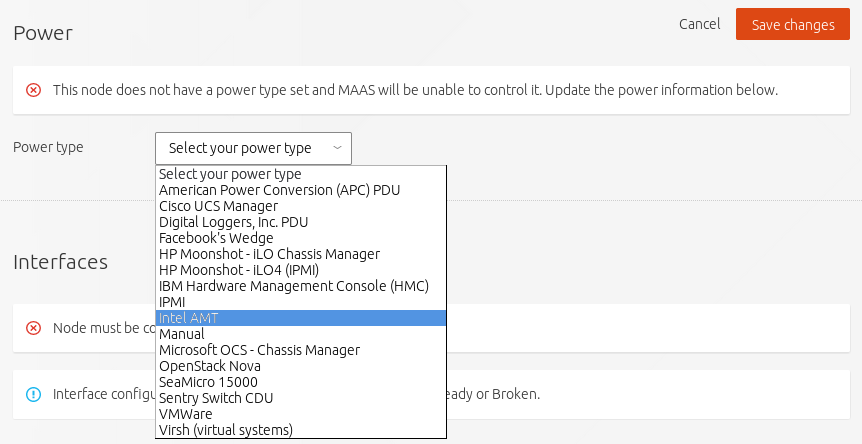
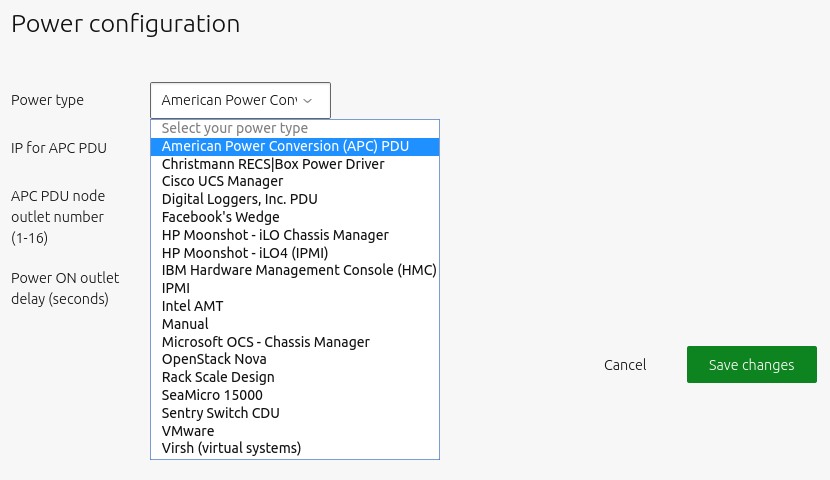
redaction

diff --git a/docs/searchindex.js b/docs/searchindex.js
@@ -1,1 +1,1 @@
-Search.setIndex({docnames:["BOSH","Juju","MAAS","OpenStack","index"],envversion:53,filenames:["BOSH.rst","Juju.rst","MAAS.rst","OpenStack.rst","index.rst"],objects:{},objnames:{},objtypes:{},terms:{"1dad6d85d6e132810439daba7ca05694cec208ab":0,"25t18":0,"40gb":2,"424b":0,"471a":0,"50gb":0,"51z":0,"7ce65259":0,"7cm8tm":1,"8366c6fd":0,"88cb":0,"8gb":[0,2],"9d3cee85db2c":0,"case":2,"default":[0,1,2,3],"import":2,"long":1,"new":[1,2,3,4],"public":[1,2,3],"return":1,"switch":3,"try":0,"while":[0,2],Adding:[0,3,4],But:[1,2],DNS:[2,3],For:[0,1,2,3],Its:3,LTS:[1,2,3],One:2,QoS:3,The:[0,1,2,3],There:[0,2],These:[2,3],Use:[0,2,3],Using:[1,4],VMs:[0,3],With:[1,3],abl:[0,2],about:[2,3],abov:[1,2,3],acceler:2,accept:2,access:[1,2],account:2,acl:3,across:[2,3],act:[2,3],action:2,adapt:2,add:[1,2,3],added:[0,1,2],adding:[2,3],addit:[2,3,4],addition:0,address:[1,2,3],adequ:2,admin:[0,1,3],administr:[2,3],advanc:3,advis:2,after:[0,2,3],agent:[1,3],alia:0,all:[0,2,3],allow:[1,2,3],almost:[0,1,2],alongsid:3,alpha1:1,alreadi:2,also:[0,2],altern:3,amazon:0,amd64:1,amount:3,amqp:3,ani:[0,1,2],anoth:[0,2],apach:0,api:[1,2,3],app:3,appear:2,append:3,appl:0,appli:0,applic:[1,2,3],appropri:2,apt:[0,1,2],arbitrari:2,arch:1,architectur:2,archiv:2,ask:[1,2],assign:2,associ:3,attempt:[1,2],auth:1,authent:1,author:4,automat:[1,2],avail:[0,1,2,3],awk:3,azur:0,backend:3,base:[2,3],basi:2,basic:2,been:[1,2],befor:[0,1,2],being:2,below:[0,2,3],best:0,better:3,bin:0,binari:4,blank:2,block:3,bmc:2,board:4,boot:2,bootstrap:[0,1,2,3],bosh:4,boshlit:0,both:[2,3],bottom:2,box:2,brew:0,bring:0,broker:3,browser:[2,3],build:0,built:2,bundl:3,button:2,call:[1,3],can:[0,1,2,3],capabl:[2,3],celect:2,cento:4,centr:2,central:3,ceph:3,chang:[2,3],charm:3,check:[1,2,3],chmod:0,choos:0,cinder:3,clarif:2,clean:4,cli:[2,4],click:[1,2],client:[0,2,3,4],clone:0,cloud:[0,1,2,3],cloudfoundri:0,cloudstack:0,cluster:3,codenam:3,com:0,combin:3,command:[0,1,2,3],commiss:4,common:2,comparison:2,compil:0,complet:[1,2],complex:2,compon:[1,3],comput:[2,3],compute01:2,compute02:2,compute03:2,compute04:2,concept:2,conductor:3,config:0,configur:[0,2,3,4],congratul:[0,3],conjunct:3,connect:[0,1,3,4],consequ:3,consid:2,consider:2,constraint:[1,2,3],contact:1,contain:[2,3],content:[2,4],continu:[0,3],control:[1,2,4],copi:1,core:[1,2],correct:0,correctli:2,cost:3,could:2,cpi:0,cppforlif:0,cpu:2,creat:[0,1,2,3],createadmin:2,credenti:[1,2],cuda:2,current:[0,2],custom:2,cycl:2,dashboard:[2,3],data:2,databas:2,defin:2,definit:1,delet:0,deliv:3,deliveri:3,depend:[2,3,4],deploi:[1,2],deploy:[0,1,2,3],describ:2,descript:4,design:3,destroi:0,detail:[0,1,2],detect:2,dev:0,devel:0,develop:0,devic:2,dhcp:4,differ:[1,2,3],directli:[3,4],director:0,directori:0,discov:2,discoveri:[2,3],disk:0,distribut:[0,3],django:3,document:2,doe:2,doing:3,domain:2,don:0,down:2,download:[0,2],downtim:0,drive:2,driver:2,drop:2,dure:[0,2,3],dynam:[3,4],each:[2,3],easier:3,easiest:0,easili:[0,2],ec2:0,edit:2,effect:3,effortlessli:3,either:0,email:2,emerg:3,empti:2,enabl:[0,3,4],encapsul:3,end:2,endpoint:1,engin:0,eniwar:[3,4],enough:1,ensur:[0,2,3],enter:[1,2,3],enterpris:3,entir:3,env:0,environ:[2,3,4],envrc:0,ephemer:2,errand:0,essenti:0,esxi:2,etc:3,everyth:[1,2,3],exact:0,exactli:3,exampl:[0,3],excel:3,exclus:3,execut:0,expand:3,experiment:3,explan:0,extend:[0,4],extens:3,extern:2,extra:0,fabric:[2,3],failur:0,featur:2,feedback:0,feel:0,fetch:1,few:[0,2],field:[1,2],file:[0,2,3],fill:2,finish:2,first:[0,1,2,3],fledg:1,follow:[0,1,2,3],forai:3,format:3,forward:2,found:1,foundat:[1,3],foundri:0,four:2,framework:2,free:0,fresh:2,from:[0,2,3],fulli:[1,2],further:[2,3],furthermor:2,galera:3,gatewai:3,gcc:0,gem:0,gener:[0,2],get:[1,2,3,4],git:0,github:[0,2],githubusercont:0,give:[0,3],given:[1,2],glanc:3,go_ag:0,goe:0,going:[1,2,3],googl:[0,2],gpu:2,great:3,grep:3,group:[0,2],gui:1,hadoop:0,half:2,hand:2,hardwar:2,has:[1,2,3],have:[0,1,2,3],held:3,here:2,high:3,hold:[1,3],home:2,homebrew:4,horizon:3,host:[1,2],how:[0,1,2],howev:2,http:[0,1,2,3],hundr:0,hypervisor:3,iaa:0,ideal:3,ident:3,identifi:2,imag:[3,4],implement:[2,3],improv:2,includ:[1,2,3],index:4,individu:2,inform:[1,2,3],infrastructur:[0,2],initi:[1,2,4],inst:3,instal:4,instanc:[0,1],instruct:[0,1,2,3],integr:3,intend:3,interact:[0,2],interest:0,interfac:[0,2,3],involv:2,ipmi:2,issu:2,its:[0,2,3],itself:1,juju01:2,juju:[2,4],jump:3,just:[0,2],keep:0,kei:[1,4],keygen:2,keyston:3,kill:3,know:0,label:2,languag:4,larg:0,later:0,latest:0,launch:[1,2],launchpad:2,lead:3,learn:3,least:0,leav:2,left:2,let:[0,2],leverag:0,lib:0,librari:3,libreadline6:0,libsqlite3:0,libssl:0,libxml2:0,libxslt:0,libyaml:0,lifecycl:0,like:[0,2],line:0,link:[1,2],linux:[0,2],list:[1,2],lite:0,load:[0,2],local:[0,2],log:[2,3],login:[1,2,3],look:[1,2,3],maa:[1,3,4],machin:[1,2,3],maco:4,made:3,mai:2,maintain:3,make:[0,2,3],manag:[0,1,2,3],mani:2,manifest:0,manual:1,master:0,mem:1,menu:2,messag:3,metal:2,method:0,microsoft:0,minim:0,minimum:2,minut:2,mkdir:0,model:[1,2,3],modifi:2,modul:4,moment:0,mon:3,monitor:[0,1,2,3],more:[0,1,2],most:2,move:[0,1,2],multipl:[0,2,3],mymaa:[1,3],mymass:1,mysql:[0,3],name:[0,1,2,3],nativ:0,navig:0,necessari:2,need:[0,1,2,3],network:[0,1,3,4],neutron:3,newli:2,next:[0,4],nic:[2,3],node:[1,3,4],normal:2,note:3,notic:1,nova:3,now:[0,1,2,3],ntp:3,number:2,oauth1:1,oauth:1,object:3,obvious:2,oct:4,off:2,often:0,onc:[2,3],one:[1,2],onto:[2,3],open:[1,2,3],openssl:0,openstack:[1,2,4],openvswitch:3,oper:[0,1,2,3],option:[1,2,3],order:2,org:3,organis:2,osd:3,other:[1,3,4],our:[0,1,2,3],out:3,output:[0,1,3],outsid:2,over:[0,3],overlap:2,own:2,paa:0,packag:[0,2,3,4],page:[0,1,2,4],pair:2,pane:2,part:[2,3],particularli:0,passphras:2,password:[2,3],past:1,patch:0,path:0,per:2,percona:3,perfectli:2,perform:[0,2,3],phase:2,physic:[2,3],pictur:2,piec:1,place:2,platform:[0,3],pleas:0,plugin:3,point:2,port:3,portion:2,possibl:2,postgresql:0,potenti:3,power:2,ppa:1,prefer:[0,1,3],prerequisit:4,press:[1,2],previou:1,previous:3,princip:3,principl:3,print:3,privat:[1,2],probe:2,process:[0,2,3],produc:1,product:3,project:[0,3],protocol:3,provid:[0,2,3],provis:0,proxi:2,pub:2,publish:0,purpos:2,pxe:2,queri:0,quick:4,quickest:3,rabbitmq:3,rack:2,rado:3,radosgw:3,ram:[0,2],rang:4,raw:0,readi:[0,2],real:3,recommend:[0,3],recoveri:0,recreat:3,redeploi:3,refer:[0,3],reflect:2,region:[2,3],regist:3,registr:3,relat:3,releas:0,reliabl:3,remain:2,rememb:3,remov:3,renam:2,render:4,report:2,repositori:[0,1,3],request:[2,3],requir:[0,1,3,4],reserv:4,resolv:2,resourc:3,retriev:1,rev:3,right:[1,2],robust:3,rout:0,rsa:2,rubi:0,run:[0,1,2,3],same:[0,1,2],satisfi:0,save:2,scalabl:3,scale:[0,1,2,3],schedul:3,script:0,search:4,second:2,section:[0,2],secur:2,see:[0,1,2,3],select:[0,1,2],separ:[1,3],seri:3,server:[2,3],servic:[0,3,4],set:[0,2],settl:3,setup:2,sever:2,sha1:0,share:3,should:[0,2,3],show:[1,2],shown:3,shutdown:3,sign:2,similar:[0,1,2,3],simpli:[1,2,3],sinc:2,singl:[2,3],skip:[0,2],small:0,smoke:0,softwar:[0,1],solut:3,some:[0,3],someth:[2,3],sourc:[0,1,2],space:[0,2],specif:2,specifi:2,sqlite3:0,sqlite:0,ssh:4,stabl:1,stack:3,stage:[0,2],standalon:0,standard:3,start:[1,2,3,4],state:[0,2,3],statu:[2,3],stemcel:0,step:[0,4],still:3,storag:[2,3],store:3,strictli:2,stronger:3,subnet:2,subordin:3,subsystem:0,succeed:0,success:1,successfulli:[1,2,3],sudo:[0,1,2],suffix:2,suit:0,summari:2,support:[0,2,3],sure:[0,3],swift:3,sync:2,synchron:3,system:[0,1,3],tabl:2,tag:[1,2,3],take:[2,3],talk:1,tap:0,target:[2,3],tell:2,term:2,termin:1,terminolog:2,territori:3,test:[0,2,4],than:3,thei:2,them:[2,3],thi:[0,1,2,3],thing:[0,2],those:2,thousand:2,through:[0,3],time:3,todo:0,togeth:2,tool:[0,1],top:[1,2],topolog:2,trace:2,traffic:2,troubl:0,troubleshoot:0,trusti:4,turn:2,two:[1,2,3],type:[1,2,3],typic:2,ubuntu:[1,2,3,4],ultim:2,under:2,underli:3,understand:3,unifi:0,unit:3,unless:[2,3],untag:2,uos:3,updat:[0,2],upload:[0,2],upstream:2,url:[1,3],usag:2,use:[0,1,2,3],used:[0,1,2,3],user:[0,1,2,3],usernam:1,uses:2,using:[0,1,2,3],usr:0,ussernam:2,usual:2,uuid:0,valu:[1,2],vari:2,variou:1,vbox:0,vendor:3,verifi:[0,1],version:[0,1,2,3,4],via:0,view:1,virtual:[0,2,3],virtualbox:0,vlan:2,vmware:[0,2],volum:3,vsphere:[0,1,2],vswitch:3,wai:[0,2,3],wait:1,want:2,warden:0,warden_cpi:0,web:[0,1,2,3],welcom:2,well:[0,2],wget:0,what:3,when:[0,1,2,3],whenev:2,where:[0,1,2],which:[1,2,3],why:2,wide:2,wider:2,window:4,within:[1,2,3],without:2,work:[1,2,3],workflow:0,workload:3,workspac:0,workstat:0,worth:[1,2],would:[0,2],xcode:0,xenial:1,xtradb:3,yajl:0,yaml:3,yet:0,yml:0,you:[0,1,2,3],your:[0,1,2,3],yum:0,zero:0,zlib1g:0,zlibc:0,zone:2,zookeep:0},titles:["4. Install BOSH","2. Install Juju","1. Install MAAS","3. Install OpenStack","Welcome to Deploying Cloud Foundry on Private Cloud\u2019s documentation!"],titleterms:{"new":0,Adding:2,Using:0,addit:0,binari:0,board:2,bosh:0,cento:0,clean:0,cli:0,client:1,cloud:4,commiss:2,configur:1,connect:2,control:3,depend:0,deploi:[0,3,4],dhcp:2,directli:0,document:4,dynam:2,enabl:2,environ:[0,1],extend:2,foundri:4,get:0,homebrew:0,imag:2,indic:4,initi:0,instal:[0,1,2,3],juju:[1,3],kei:2,maa:2,maco:0,network:2,next:[1,2,3],node:2,openstack:[0,3],other:0,packag:1,prerequisit:0,privat:4,quick:0,rang:2,requir:2,reserv:2,servic:2,ssh:2,start:0,step:[1,2,3],tabl:4,test:[1,3],trusti:0,ubuntu:0,welcom:4,window:0}})
+Search.setIndex({docnames:["BOSH","Juju","MAAS","OpenStack","index"],envversion:53,filenames:["BOSH.rst","Juju.rst","MAAS.rst","OpenStack.rst","index.rst"],objects:{},objnames:{},objtypes:{},terms:{"1dad6d85d6e132810439daba7ca05694cec208ab":0,"25t18":0,"40gb":2,"424b":0,"471a":0,"50gb":0,"51z":0,"7ce65259":0,"7cm8tm":1,"8366c6fd":0,"88cb":0,"8gb":[0,2],"9d3cee85db2c":0,"case":2,"default":[0,1,2,3],"function":2,"import":2,"long":1,"new":[1,2,3,4],"public":[1,2,3],"return":1,"static":2,"switch":3,"try":0,"while":[0,2],Adding:[0,3,4],But:[1,2],DNS:[2,3],For:[0,1,2,3],Its:3,LTS:[1,2,3],One:2,QoS:3,Such:2,That:2,The:[0,1,2,3],There:[0,2],These:[2,3],Use:[0,2,3],Using:[1,4],VMs:[0,3],With:[1,3],abl:[0,2],about:[2,3],abov:[1,2,3],acceler:2,accept:2,access:[1,2],accord:2,account:2,acl:3,across:[2,3],act:[2,3],action:2,activ:2,adapt:2,add:[1,2,3],added:[0,1,2],adding:[2,3],addit:[2,3,4],addition:0,address:[1,2,3],adequ:2,admin:[0,1,3],administr:[2,3],advanc:3,advis:2,after:[0,2,3],agent:[1,3],alia:0,all:[0,2,3],allow:[1,2,3],almost:[0,1],alongsid:3,alpha1:1,alreadi:2,also:[0,2],altern:3,amazon:0,amd64:1,amount:3,amqp:3,ani:[0,1,2],anoth:[0,2],apach:0,api:[1,2,3],app:3,appear:2,append:3,appl:0,appli:0,applic:[1,2,3],appropri:2,apt:[0,1,2],arch:1,architectur:2,archiv:2,ask:[1,2],assign:2,associ:3,attempt:1,auth:1,authent:1,author:4,auto:2,automat:[1,2],avail:[0,1,2,3],awk:3,azur:0,backend:3,base:[2,3],basi:2,basic:2,been:[1,2],befor:[0,1,2],begin:2,being:2,below:[0,2,3],best:0,better:3,bin:0,binari:4,blank:2,block:3,bmc:2,board:4,boot:2,bootstrap:[0,1,2,3],bosh:4,boshlit:0,both:[2,3],bottom:2,box:2,brew:0,bring:0,broker:3,browser:[2,3],build:0,built:2,bundl:3,button:2,call:[1,3],can:[0,1,2,3],capabl:[2,3],card:2,celect:2,cento:4,centr:2,central:3,ceph:3,chang:[2,3],channel:2,charm:3,check:[1,2,3],checkbox:2,chmod:0,choos:[0,2],cinder:3,clarif:2,clean:4,cli:[2,4],click:[1,2],client:[0,2,3,4],clone:0,cloud:[0,1,2,3],cloudfoundri:0,cloudstack:0,cluster:3,codenam:3,com:0,combin:[2,3],command:[0,1,2,3],commiss:4,common:2,commun:2,comparison:2,compil:0,complet:[1,2],complex:2,compon:[1,3],comput:[2,3],compute01:2,compute02:2,compute03:2,compute04:2,concept:2,conductor:3,config:0,configur:[0,2,3,4],configure_hba:2,congratul:[0,3],conjunct:3,connect:[0,1,3,4],consequ:3,consid:2,consider:2,constraint:[1,2,3],contact:[1,2],contain:[2,3],content:[2,4],continu:[0,3],control:[1,2,4],copi:1,core:[1,2],corner:2,correct:0,correctli:2,correspond:2,cost:3,could:2,cpi:0,cppforlif:0,cpu:2,creat:[0,1,2,3],createadmin:2,credenti:[1,2],cuda:2,current:[0,2],custom:2,cycl:2,dashboard:[2,3],data:2,databas:2,deactiv:2,defin:2,definit:1,delet:0,deliv:3,deliveri:3,depend:[2,3,4],deploi:[1,2],deploy:[0,1,2,3],describ:2,descript:4,design:3,destroi:0,detail:[0,1,2],detect:2,dev:0,devel:0,develop:0,devic:2,dhcp:4,differ:[1,2,3],direct:2,directli:[3,4],director:0,directori:0,discov:2,discoveri:[2,3],disk:0,displai:2,distribut:[0,3],django:3,document:2,doing:3,domain:2,don:0,done:2,down:2,download:[0,2],downtim:0,drive:2,driver:2,drop:2,dropdown:2,dure:[0,2,3],dynam:[3,4],each:[2,3],easier:3,easiest:0,easili:[0,2],ec2:0,edit:2,effect:3,effortlessli:3,either:0,email:2,emerg:3,empti:2,enabl:[0,3,4],encapsul:3,end:2,endpoint:1,engin:0,eniwar:[3,4],enlist:2,enough:1,ensur:[0,2,3],enter:[1,2,3],enterpris:3,entir:3,env:0,environ:[2,3,4],envrc:0,ephemer:2,errand:0,essenti:0,esxi:2,etc:3,eventu:2,everyth:[1,2,3],exact:0,exactli:3,exampl:[0,3],excel:3,exclus:3,execut:0,expand:3,experiment:3,explan:0,extend:[0,4],extens:3,extern:2,extra:[0,2],fabric:[2,3],failur:0,featur:2,feedback:0,feel:0,fetch:1,few:[0,2],field:[1,2],file:[0,2,3],fill:2,finalis:2,finish:2,firmwar:2,first:[0,1,2,3],fledg:1,follow:[0,1,2,3],forai:3,format:3,forward:2,found:1,foundat:[1,3],foundri:0,four:2,framework:2,free:0,fresh:2,from:[0,2,3],fulli:[1,2],further:[2,3],furthermor:2,galera:3,gatewai:3,gcc:0,gem:0,gener:[0,2],get:[1,2,3,4],git:0,github:[0,2],githubusercont:0,give:[0,3],given:1,glanc:3,go_ag:0,goe:0,going:[1,2,3],googl:[0,2],gpu:2,great:3,grep:3,group:[0,2],gui:1,hadoop:0,half:2,hand:2,hardwar:2,has:[1,2,3],have:[0,1,2,3],hba:2,health:2,held:3,here:2,high:3,hit:2,hold:[1,3],home:2,homebrew:4,horizon:3,host:[1,2],how:[0,1,2],howev:2,http:[0,1,2,3],hundr:0,hypervisor:3,iaa:0,ideal:3,ident:3,identifi:2,imag:[3,4],implement:[2,3],improv:2,includ:[1,2,3],incomplet:2,index:4,individu:2,inform:[1,2,3],infrastructur:[0,2],init:2,initi:[1,2,4],initrd:2,inst:3,instal:4,instanc:[0,1],instruct:[0,1,3],integr:3,intend:[2,3],interact:[0,2],interest:0,interfac:[0,2,3],involv:2,ipmi:2,issu:2,its:[0,2,3],itself:1,juju01:2,juju:[2,4],jump:3,just:[0,2],keep:[0,2],kei:[1,4],kernel:2,keygen:2,keyston:3,kill:3,know:0,label:2,languag:4,larg:0,later:0,latest:[0,2],launch:[1,2],launchpad:2,lead:3,learn:3,least:0,leav:2,left:2,let:0,leverag:0,lib:0,librari:3,libreadline6:0,libsqlite3:0,libssl:0,libxml2:0,libxslt:0,libyaml:0,lifecycl:0,like:[0,2],line:0,link:[1,2],linux:[0,2],list:[1,2],lite:0,load:[0,2],local:[0,2],log:[2,3],logic:2,login:[1,2,3],look:[1,3],maa:[1,3,4],machin:[1,2,3],maco:4,made:3,mai:2,maintain:3,make:[0,2,3],manag:[0,1,2,3],mani:2,manifest:0,manual:1,master:0,mem:1,menu:2,messag:3,metal:2,method:0,microsoft:0,minim:0,minimum:2,minut:2,mkdir:0,mode:2,model:[1,2,3],modifi:2,modul:4,moment:0,mon:3,monitor:[0,1,2,3],more:[0,1,2],most:2,mount:2,move:[0,1,2],multipl:[0,2,3],must:2,mymaa:[1,3],mymass:1,mysql:[0,3],name:[0,1,2,3],nativ:0,navig:0,necessari:2,need:[0,1,2,3],netboot:2,network:[0,1,3,4],neutron:3,newli:2,next:[0,4],nic:[2,3],node:[1,3,4],normal:2,note:3,notic:1,nova:3,now:[0,1,2,3],ntp:3,number:2,oauth1:1,oauth:1,object:3,obvious:2,oct:4,off:2,often:0,onc:[2,3],one:[1,2],onto:[2,3],open:[1,2,3],openssl:0,openstack:[1,2,4],openvswitch:3,oper:[0,1,2,3],option:[1,2,3],order:2,org:3,organis:2,osd:3,other:[1,3,4],our:[0,1,2,3],out:[2,3],output:[0,1,3],outsid:2,over:[0,2,3],overlap:2,own:2,paa:0,packag:[0,2,3,4],page:[0,1,2,4],pair:2,pane:2,paralel:2,paramet:2,part:[2,3],particularli:0,passphras:2,password:[2,3],past:1,patch:0,path:0,per:2,percona:3,perfectli:2,perform:[0,2,3],physic:[2,3],pictur:2,piec:1,place:2,platform:[0,3],pleas:0,plugin:3,point:2,port:3,portion:2,possibl:2,postgresql:0,potenti:3,power:2,ppa:1,prefer:[0,1,3],prerequisit:4,preserv:2,press:[1,2],prevent:2,previou:1,previous:[2,3],princip:3,principl:3,print:3,privat:[1,2],probe:2,process:[0,2,3],produc:1,product:3,project:[0,3],prompt:2,protocol:3,provid:[0,2,3],provis:0,proxi:2,pub:2,publish:0,purpos:2,pxe:2,queri:0,quick:4,quickest:3,rabbitmq:3,rack:2,rado:3,radosgw:3,ram:[0,2],random:2,rang:4,raw:0,readi:[0,2],real:3,receiv:2,recommend:[0,2,3],recoveri:0,recreat:3,redeploi:3,refer:[0,3],reflect:2,region:[2,3],regist:3,registr:3,relat:3,releas:[0,2],reliabl:3,remain:2,rememb:3,remov:3,renam:2,render:4,report:2,repositori:[0,1,3],request:[2,3],requir:[0,1,3,4],reserv:4,resolv:2,resourc:3,retain:2,retriev:1,rev:3,reveal:2,right:[1,2],robust:3,rout:0,rsa:2,rubi:0,run:[0,1,2,3],same:[0,1,2],satisfi:0,save:2,scalabl:3,scale:[0,1,2,3],schedul:3,script:[0,2],scroll:2,search:4,section:[0,2],secur:2,see:[0,1,2,3],select:[0,1,2],separ:[1,3],seri:3,server:[2,3],servic:[0,3,4],set:[0,2],settl:3,setup:2,sever:2,sha1:0,share:3,should:[0,2,3],show:[1,2],shown:3,shut:2,shutdown:3,sign:2,similar:[0,1,2,3],simpli:[1,2,3],sinc:2,singl:[2,3],skip:[0,2],small:0,smart:2,smartctl:2,smoke:0,softwar:[0,1],solut:3,some:[0,2,3],someth:[2,3],sourc:[0,1,2],space:[0,2],specif:2,specifi:2,speed:2,sqlite3:0,sqlite:0,squashf:2,ssh:4,stabl:1,stack:3,stage:[0,2],standalon:0,standard:3,start:[1,2,3,4],state:[0,2,3],statu:[2,3],stemcel:0,step:[0,4],still:3,storag:[2,3],store:3,strictli:2,stronger:3,subnet:2,subordin:3,subsystem:0,succe:2,succeed:0,success:1,successfulli:[1,2,3],sudo:[0,1,2],suit:0,summari:2,support:[0,2,3],sure:[0,3],swift:3,sync:2,synchron:3,system:[0,1,2,3],tab:2,tabl:2,tag:[1,2,3],take:[2,3],talk:[1,2],tap:0,target:[2,3],tell:2,term:2,termin:1,terminolog:2,territori:3,test:[0,2,4],tftp:2,than:3,thei:2,them:[2,3],therefor:2,thi:[0,1,2,3],thing:0,those:2,thousand:2,through:[0,3],time:[2,3],todo:0,togeth:2,tool:[0,1],top:[1,2],topolog:2,trace:2,traffic:2,troubl:0,troubleshoot:0,trusti:4,turn:2,two:[1,2,3],type:[1,2,3],typic:2,ubuntu:[1,2,3,4],ultim:2,undefin:2,under:2,undergo:2,underli:[2,3],understand:3,unifi:0,unit:3,unless:[2,3],untag:2,until:2,uos:3,updat:[0,2],update_firmwar:2,upload:[0,2],upper:2,upstream:2,url:[1,3],usag:2,use:[0,1,2,3],used:[0,1,2,3],user:[0,1,2,3],usernam:1,uses:2,using:[0,1,2,3],usr:0,ussernam:2,usual:2,uuid:0,valid:2,valu:[1,2],vari:2,variou:1,vbox:0,vendor:3,verifi:[0,1],version:[0,1,2,3,4],via:[0,2],view:1,virtual:[0,2,3],virtualbox:0,vlan:2,vmware:[0,2],volum:3,vsphere:[0,1,2],vswitch:3,wai:[0,2,3],wait:1,want:2,warden:0,warden_cpi:0,web:[0,1,2,3],welcom:2,well:[0,2],wget:0,what:3,when:[0,1,2,3],whenev:2,where:[0,1,2],which:[1,2,3],wide:2,wider:2,window:4,within:[1,2,3],without:2,work:[1,2,3],workflow:0,workload:3,workspac:0,workstat:0,worth:[1,2],would:[0,2],xcode:0,xenial:1,xtradb:3,yajl:0,yaml:3,yet:0,yml:0,you:[0,1,2,3],your:[0,1,2,3],yum:0,zero:0,zlib1g:0,zlibc:0,zone:2,zookeep:0},titles:["4. Install BOSH","2. Install Juju","1. Install MAAS","3. Install OpenStack","Welcome to Deploying Cloud Foundry on Private Cloud\u2019s documentation!"],titleterms:{"new":0,Adding:2,Using:0,addit:0,binari:0,board:2,bosh:0,cento:0,clean:0,cli:0,client:1,cloud:4,commiss:2,configur:1,connect:2,control:3,depend:0,deploi:[0,3,4],dhcp:2,directli:0,document:4,dynam:2,enabl:2,environ:[0,1],extend:2,foundri:4,get:0,homebrew:0,imag:2,indic:4,initi:0,instal:[0,1,2,3],juju:[1,3],kei:2,maa:2,maco:0,network:2,next:[1,2,3],node:2,openstack:[0,3],other:0,packag:1,prerequisit:0,privat:4,quick:0,rang:2,requir:2,reserv:2,servic:2,ssh:2,start:0,step:[1,2,3],tabl:4,test:[1,3],trusti:0,ubuntu:0,welcom:4,window:0}})

diff --git a/docs/MAAS.html b/docs/MAAS.html
@@ -306,25 +306,72 @@ In our case, we assign DNS address <code class="docutils literal notranslate"><s
 <ul class="simple">
 <li>Detect each new node on the network</li>
 <li>Probe and log each node’s hardware (using an ephemeral boot image)</li>
-<li>Add each node to the <strong>Nodes</strong> page with a status of <strong>New</strong></li>
+<li>Add each node to the <strong>Machines</strong> page with a status of <strong>New</strong></li>
 </ul>
 <p>While it is not the most appropriate way, at this stage it is advisable to include each node individually in order to trace each one strictly.</p>
-<p>In order to fully manage a deployment, MAAS needs to be able power cycle each node. This is why MAAS will attempt to power each node off during the discovery phase. If your hardware does not power off, it’s likely that it’s not using an IPMI based BMC and you will need to edit a node’s power configuration to enable MAAS to control its power. See the <a class="reference external" href="https://docs.maas.io/2.4/en/nodes-power-types">MAAS documentation</a> for more information on power types, including a <a class="reference external" href="https://docs.maas.io/2.4/en/nodes-power-types#bmc-driver-support">table</a> showing a feature comparison for the supported BMC drivers.</p>
-<p>To edit a node’s power configuration, click on the arbitrary name your machine has been given in the <strong>Nodes</strong> page. This will open the configuration page for that specific machine. <strong>Power</strong> is the second section from the top.</p>
-<p>Use the drop-down <strong>Power type</strong> menu to open the configuration options for your node’s specific power configuration and enter any further details that the configuration may require.</p>
+<p>In order for MAAS to fully manage a node it must be able to power cycle it. This is done via a communication channel with the <a class="reference external" href="https://en.wikipedia.org/wiki/Intelligent_Platform_Management_Interface#Baseboard_management_controller">BMC</a> card of the node’s underlying system. A newly added node is therefore incomplete until its power type has been configured.</p>
+<div class="admonition note">
+<p class="first admonition-title">Note</p>
+<p class="last">See the <a class="reference external" href="https://docs.maas.io/2.4/en/nodes-power-types">MAAS documentation</a> for more information on power types, including a <a class="reference external" href="https://docs.maas.io/2.4/en/nodes-power-types#bmc-driver-support">table</a> showing a feature comparison for the supported BMC drivers.</p>
+</div>
+<p>To configure a node’s power type, begin by clicking on the node from the <strong>Machines</strong> page of the web UI followed by its <strong>Configuration</strong> tab. Scroll down for <strong>Power configuration</strong>. If the power type is undefined the following will be displayed:</p>
+<div class="figure" id="install-maas-error">
+<img alt="Power type error" src="_images/1-install-maas_error.png" />
+</div>
+<p>Choose a type in the dropdown menu that corresponds to the node’s underlying machine’s BMC card.</p>
 <div class="figure" id="install-maas-power">
 <img alt="Power configuration" src="_images/1-install-maas_power.png" />
 </div>
-<p>When you make the necessary changes, click <strong>Save changes</strong>. The machine can now be turned off from the <strong>Take option</strong> menu in the top right.</p>
+<p>Use the drop-down <strong>Power type</strong> menu to open the configuration options for your node’s specific power configuration and enter any further details that the configuration may require.
+When you make the necessary changes, click <strong>Save changes</strong>. The machine can now be turned off from the <strong>Take option</strong> menu in the top right.</p>
+<p>By default, the machine gets a random name. It is recommended that the name of each new machine be edited in accordance with its intended purpose. This can be done by selecting the corresponding machine from the <strong>Machines</strong> page.
+A <strong>Machine summary</strong> field opens where in the upper left corner we have to click and change the name of the selected machine and save the change with the <strong>Save</strong> button:</p>
+<div class="figure" id="install-maas-rename">
+<img alt="Rename machine" src="_images/1-install-maas_rename.png" />
+</div>
 </div>
 <div class="section" id="commission-nodes">
 <span id="install-maas-commission-nodes"></span><h2>1.10. Commission nodes<a class="headerlink" href="#commission-nodes" title="Permalink to this headline">¶</a></h2>
-<p>From the <strong>Nodes</strong> page, select all the check boxes for all the machines in a <strong>New</strong> state and use the <strong>Take action</strong> menu to select <strong>Commission</strong>. After a few minutes, successfully commissioned nodes will change their status to <strong>Ready</strong>. The CPU cores, RAM, number of drives and storage fields should now correctly reflect the hardware on each node.</p>
-<p>For more information on the different states and actions for a node, see <a class="reference external" href="https://docs.maas.io/2.1/en/intro-concepts#node-actions">Node actions</a> in the MAAS documentation.</p>
-<p>You are now almost at the stage where you can let Juju do its thing. But before you take that next step, you are going to rename and tag the newly added nodes so that you can instruct Juju which machines to use for which purpose.</p>
-<p>To change the name of a node, select it from the <strong>Nodes</strong> page and use the editable name field in the top right. All nodes will automatically be suffixed with <strong>.maas</strong>. Click on <strong>Save</strong> to save the change.</p>
-<p>Tags are normally used to identify nodes with specific hardware, such GPUs for GPU-accelerated CUDA processing. This allows Juju to target these capabilities when deploying applications that may use them. But they can also be used for organisational and management purposes. This is how you are going to use them, by adding a <strong>compute</strong> tag to the four cloud nodes and a juju tag to the node that will act as the Juju controller.</p>
-<p>Tags are added from the <strong>Machine summary</strong> section of the same individual node page we used to rename a node. Click <strong>Edit</strong> on this section and look for <strong>Tags</strong>. A tag is added by entering a name for the tag in the empty field and clicking <strong>Save changes</strong>.</p>
+<p>Once a node is added to MAAS (see <a class="reference internal" href="#install-maas-nodes"><span class="std std-ref">Adding nodes</span></a>) the next logical step is to <em>commission</em> it.</p>
+<p>To commission, the underlying machine needs to be configured to netboot (this should already have been done during the enlistment stage). Such a machine will undergo the following process:</p>
+<blockquote>
+<div><ol class="arabic simple">
+<li>DHCP server is contacted</li>
+<li>kernel and initrd are received over TFTP</li>
+<li>machine boots</li>
+<li>initrd mounts a Squashfs image ephemerally over HTTP</li>
+<li>cloud-init runs commissioning scripts</li>
+<li>machine shuts down</li>
+</ol>
+</div></blockquote>
+<p>The commissioning scripts will talk to the region API server to ensure that everything is in order and that eventual deployment will succeed.</p>
+<p>The image used is, by default, the latest Ubuntu LTS release and should not require changing. However, it can be configured in the <strong>Settings</strong> page of the web UI by selecting the <strong>General</strong> tab and scrolling down to the <strong>Commissioning</strong> section.</p>
+<p>To commission, on the <strong>Machines</strong> page, select a node and choose <strong>Commission</strong> under the <strong>Take action</strong> drop-down menu.</p>
+<div class="figure" id="install-maas-commission">
+<img alt="Commission nodes" src="_images/1-install-maas_commission.png" />
+</div>
+<p>You have the option of selecting some extra parameters (checkboxes) and performing hardware tests.
+These options include:</p>
+<ul class="simple">
+<li><strong>Allow SSH access and prevent machine powering off</strong>: Machines are normally powered off after commissioning. This option keeps the machine on and enables SSH so you can access the machine.</li>
+<li><strong>Retain network configuration</strong>: When enabled, preserves any custom network settings previously configured for the machine. See <a class="reference internal" href="#install-maas-networking"><span class="std std-ref">Networking</span></a> for more information.</li>
+<li><strong>Retain storage configuration</strong>: When enabled, preserves any storage settings previously configured for the machine. See <a class="reference external" href="https://docs.maas.io/2.4/en/installconfig-storage">Storage</a> for more details.</li>
+<li><strong>Update firmware</strong>: Runs scripts tagged with <em>update_firmware</em>. See <a class="reference external" href="https://docs.maas.io/2.4/en/nodes-scripts#automatic-script-selection-by-hardware-type">Testing scripts</a> for more details.</li>
+<li><strong>Configure HBA</strong>: Runs scripts tagged with <em>configure_hba</em>. As above, see <a class="reference external" href="https://docs.maas.io/2.4/en/nodes-scripts#automatic-script-selection-by-hardware-type">Testing scripts</a> for further details.</li>
+</ul>
+<div class="figure" id="install-maas-commission-confirm">
+<img alt="Commission confirm" src="_images/1-install-maas_commission_confirm.png" />
+</div>
+<p>Click the <strong>Hardware tests</strong> field to reveal a drop-down list of tests to add and run during commissioning. See <a class="reference external" href="https://docs.maas.io/2.4/en/nodes-hw-testing">Hardware testing</a>) for more information on hardware testing scripts.</p>
+<p>From the <strong>Hardware tests</strong> field, we deactivate <code class="docutils literal notranslate"><span class="pre">smartctl-validate</span></code>, which will speed up work as SMART health for all drivers in paralell will not be validated.</p>
+<div class="figure" id="install-maas-hardware-test">
+<img alt="Hardware tests" src="_images/1-install-maas_hardware_test.png" />
+</div>
+<p>Finalise the directive by hitting <strong>Commission machine</strong>.
+While a node is commissioning its status will change to <em>Commissioning</em>. During this time the node’s network topology will be discovered. This will prompt one of the node’s network interfaces to be connected to the fabric, VLAN, and subnet combination that will allow it to be configured. By default, a static IP address will be assigned out of the reserved IP range for the subnet. That is, an IP assignment mode of <strong>Auto assign</strong> will be used.</p>
+<p>After a few minutes, successfully commissioned nodes will change their status to <strong>Ready</strong>. The CPU cores, RAM, number of drives and storage fields should now correctly reflect the hardware on each node.</p>
+<p><a class="reference external" href="https://docs.maas.io/2.4/en/nodes-tags">Tags</a> are normally used to identify nodes with specific hardware, such GPUs for GPU-accelerated CUDA processing. This allows Juju to target these capabilities when deploying applications that may use them. But they can also be used for organisational and management purposes. This is how you are going to use them, by adding a <strong>compute</strong> tag to the four cloud nodes and a juju tag to the node that will act as the Juju controller.</p>
+<p>Tags are added from the <strong>Machine summary</strong> section of the same individual node page we used to rename a node. Click <strong>Edit</strong> on the <strong>Tags</strong> section. A tag is added by activated <strong>Edit</strong> function in <strong>Machine configuration</strong> field and entering a name for the tag in the empty field and clicking <strong>Save changes</strong>.</p>
 <div class="figure" id="install-maas-tags">
 <img alt="Adding tags" src="_images/1-install-maas_tags.png" />
 </div>

diff --git a/docs/index.html b/docs/index.html
@@ -170,7 +170,7 @@
 <tr class="field-even field"><th class="field-name">Author:</th><td class="field-body"><p class="first">EniWARE</p>
 </td>
 </tr>
-<tr class="field-odd field"><th class="field-name">Rendered:</th><td class="field-body"><p class="first last">Oct 17, 2018</p>
+<tr class="field-odd field"><th class="field-name">Rendered:</th><td class="field-body"><p class="first last">Oct 18, 2018</p>
 </td>
 </tr>
 </tbody>

diff --git a/sphinx/source/MAAS.rst b/sphinx/source/MAAS.rst
@@ -253,47 +253,122 @@ MAAS is now ready to accept new nodes. To do this, first ensure your four cloud 
 
 * Detect each new node on the network
 * Probe and log each node’s hardware (using an ephemeral boot image)
-* Add each node to the **Nodes** page with a status of **New**
+* Add each node to the **Machines** page with a status of **New**
 
 While it is not the most appropriate way, at this stage it is advisable to include each node individually in order to trace each one strictly.
 
-In order to fully manage a deployment, MAAS needs to be able power cycle each node. This is why MAAS will attempt to power each node off during the discovery phase. If your hardware does not power off, it’s likely that it’s not using an IPMI based BMC and you will need to edit a node’s power configuration to enable MAAS to control its power. See the `MAAS documentation <https://docs.maas.io/2.4/en/nodes-power-types>`_ for more information on power types, including a `table <https://docs.maas.io/2.4/en/nodes-power-types#bmc-driver-support>`_ showing a feature comparison for the supported BMC drivers.
+In order for MAAS to fully manage a node it must be able to power cycle it. This is done via a communication channel with the `BMC <https://en.wikipedia.org/wiki/Intelligent_Platform_Management_Interface#Baseboard_management_controller>`_ card of the node's underlying system. A newly added node is therefore incomplete until its power type has been configured.
 
-To edit a node’s power configuration, click on the arbitrary name your machine has been given in the **Nodes** page. This will open the configuration page for that specific machine. **Power** is the second section from the top.
+.. note:: See the `MAAS documentation <https://docs.maas.io/2.4/en/nodes-power-types>`_ for more information on power types, including a `table <https://docs.maas.io/2.4/en/nodes-power-types#bmc-driver-support>`_ showing a feature comparison for the supported BMC drivers.
 
-Use the drop-down **Power type** menu to open the configuration options for your node’s specific power configuration and enter any further details that the configuration may require.
+To configure a node's power type, begin by clicking on the node from the **Machines** page of the web UI followed by its **Configuration** tab. Scroll down for **Power configuration**. If the power type is undefined the following will be displayed:
+
+.. _install-maas-error:
+
+.. figure:: /images/1-install-maas_error.png
+   :alt: Power type error 
+
+
+Choose a type in the dropdown menu that corresponds to the node's underlying machine's BMC card.
+
    
 .. _install-maas-power:
 
 .. figure:: /images/1-install-maas_power.png
    :alt: Power configuration  
 
-When you make the necessary changes, click **Save changes**. The machine can now be turned off from the **Take option** menu in the top right.   
+Use the drop-down **Power type** menu to open the configuration options for your node’s specific power configuration and enter any further details that the configuration may require.
+When you make the necessary changes, click **Save changes**. The machine can now be turned off from the **Take option** menu in the top right.  
+
+By default, the machine gets a random name. It is recommended that the name of each new machine be edited in accordance with its intended purpose. This can be done by selecting the corresponding machine from the **Machines** page.
+A **Machine summary** field opens where in the upper left corner we have to click and change the name of the selected machine and save the change with the **Save** button:
    
+.. _install-maas-rename:
 
+.. figure:: /images/1-install-maas_rename.png
+   :alt: Rename machine 
 
+   
+   
+   
+   
 .. _install-maas-commission-nodes:
 
 1.10. Commission nodes
 -----------------------
 
-From the **Nodes** page, select all the check boxes for all the machines in a **New** state and use the **Take action** menu to select **Commission**. After a few minutes, successfully commissioned nodes will change their status to **Ready**. The CPU cores, RAM, number of drives and storage fields should now correctly reflect the hardware on each node.
+Once a node is added to MAAS (see :ref:`Adding nodes <install-maas-nodes>`) the next logical step is to *commission* it.
 
-For more information on the different states and actions for a node, see `Node actions <https://docs.maas.io/2.1/en/intro-concepts#node-actions>`_ in the MAAS documentation.
+To commission, the underlying machine needs to be configured to netboot (this should already have been done during the enlistment stage). Such a machine will undergo the following process:
 
-You are now almost at the stage where you can let Juju do its thing. But before you take that next step, you are going to rename and tag the newly added nodes so that you can instruct Juju which machines to use for which purpose.
+ 1) DHCP server is contacted
+ 2) kernel and initrd are received over TFTP
+ 3) machine boots
+ 4) initrd mounts a Squashfs image ephemerally over HTTP
+ 5) cloud-init runs commissioning scripts
+ 6) machine shuts down
 
-To change the name of a node, select it from the **Nodes** page and use the editable name field in the top right. All nodes will automatically be suffixed with **.maas**. Click on **Save** to save the change.
+The commissioning scripts will talk to the region API server to ensure that everything is in order and that eventual deployment will succeed.
 
-Tags are normally used to identify nodes with specific hardware, such GPUs for GPU-accelerated CUDA processing. This allows Juju to target these capabilities when deploying applications that may use them. But they can also be used for organisational and management purposes. This is how you are going to use them, by adding a **compute** tag to the four cloud nodes and a juju tag to the node that will act as the Juju controller.
+The image used is, by default, the latest Ubuntu LTS release and should not require changing. However, it can be configured in the **Settings** page of the web UI by selecting the **General** tab and scrolling down to the **Commissioning** section.
 
-Tags are added from the **Machine summary** section of the same individual node page we used to rename a node. Click **Edit** on this section and look for **Tags**. A tag is added by entering a name for the tag in the empty field and clicking **Save changes**.   
+To commission, on the **Machines** page, select a node and choose **Commission** under the **Take action** drop-down menu.
+
+
+.. _install-maas-commission:
+
+.. figure:: /images/1-install-maas_commission.png
+   :alt: Commission nodes
+
+You have the option of selecting some extra parameters (checkboxes) and performing hardware tests.
+These options include:
+
+* **Allow SSH access and prevent machine powering off**: Machines are normally powered off after commissioning. This option keeps the machine on and enables SSH so you can access the machine.
+* **Retain network configuration**: When enabled, preserves any custom network settings previously configured for the machine. See :ref:`Networking <install-maas-networking>` for more information.
+* **Retain storage configuration**: When enabled, preserves any storage settings previously configured for the machine. See `Storage <https://docs.maas.io/2.4/en/installconfig-storage>`_ for more details.
+* **Update firmware**: Runs scripts tagged with *update_firmware*. See `Testing scripts <https://docs.maas.io/2.4/en/nodes-scripts#automatic-script-selection-by-hardware-type>`_ for more details.
+* **Configure HBA**: Runs scripts tagged with *configure_hba*. As above, see `Testing scripts <https://docs.maas.io/2.4/en/nodes-scripts#automatic-script-selection-by-hardware-type>`_ for further details.   
+
+
+
+.. _install-maas-commission-confirm:
+
+.. figure:: /images/1-install-maas_commission_confirm.png
+   :alt: Commission confirm
+  
+  
+  
+Click the **Hardware tests** field to reveal a drop-down list of tests to add and run during commissioning. See `Hardware testing <https://docs.maas.io/2.4/en/nodes-hw-testing>`_) for more information on hardware testing scripts.
+
+From the **Hardware tests** field, we deactivate ``smartctl-validate``, which will speed up work as SMART health for all drivers in paralell will not be validated.  
+
+
+
+.. _install-maas-hardware_test:
+
+.. figure:: /images/1-install-maas_hardware_test.png
+   :alt: Hardware tests
+
+
+Finalise the directive by hitting **Commission machine**.   
+While a node is commissioning its status will change to *Commissioning*. During this time the node's network topology will be discovered. This will prompt one of the node's network interfaces to be connected to the fabric, VLAN, and subnet combination that will allow it to be configured. By default, a static IP address will be assigned out of the reserved IP range for the subnet. That is, an IP assignment mode of **Auto assign** will be used.   
+   
+After a few minutes, successfully commissioned nodes will change their status to **Ready**. The CPU cores, RAM, number of drives and storage fields should now correctly reflect the hardware on each node.
+
+
+`Tags <https://docs.maas.io/2.4/en/nodes-tags>`_ are normally used to identify nodes with specific hardware, such GPUs for GPU-accelerated CUDA processing. This allows Juju to target these capabilities when deploying applications that may use them. But they can also be used for organisational and management purposes. This is how you are going to use them, by adding a **compute** tag to the four cloud nodes and a juju tag to the node that will act as the Juju controller.
+
+Tags are added from the **Machine summary** section of the same individual node page we used to rename a node. Click **Edit** on the **Tags** section. A tag is added by activated **Edit** function in **Machine configuration** field and entering a name for the tag in the empty field and clicking **Save changes**.   
+
+
    
 .. _install-maas-tags:
 
 .. figure:: /images/1-install-maas_tags.png
    :alt: Adding tags 
 
+   
+   
 A common picture of the state of the nodes that have already been added to the MAAS. You can see the names, tags, and hardware information on each node:   
 
 +-------------------+------------+--------+-------+---------+-----------+
